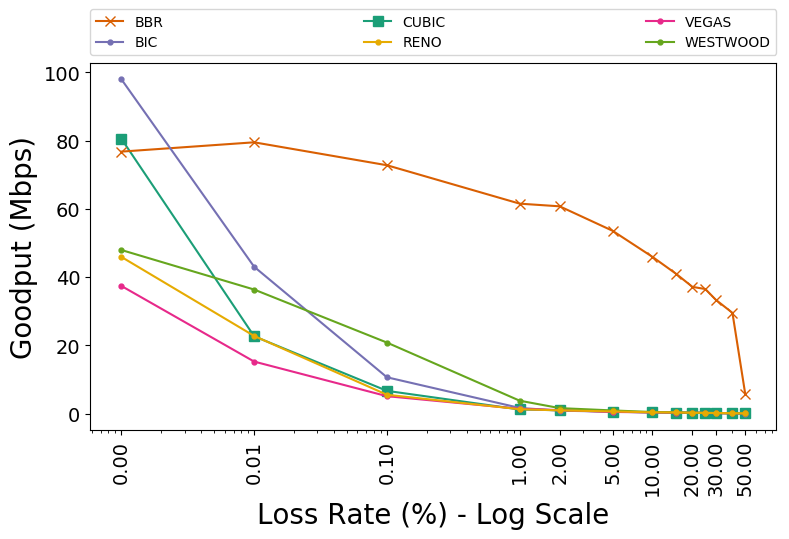
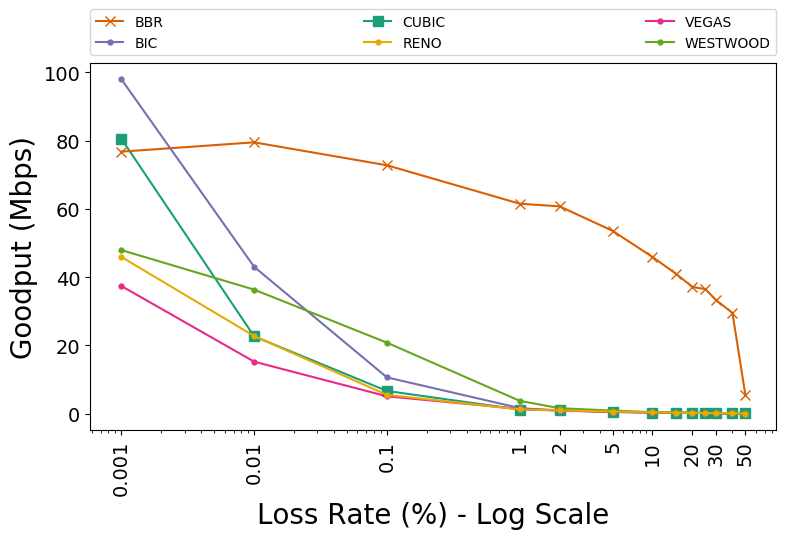
Fix x-axis precision

diff --git a/mahimahi/bbr_plot.py b/mahimahi/bbr_plot.py
@@ -50,7 +50,7 @@ def apply_axes_formatting(axes, xmark_ticks):
     # Format the Y-Axis too
     axes.set_yticklabels(axes.yaxis.get_majorticklabels(), fontsize=14)
 
-    axes.get_xaxis().set_major_formatter(matplotlib.ticker.ScalarFormatter())
+    axes.get_xaxis().set_major_formatter(matplotlib.ticker.FormatStrFormatter('%g'))
     axes.get_yaxis().set_major_formatter(matplotlib.ticker.ScalarFormatter())
 
 
